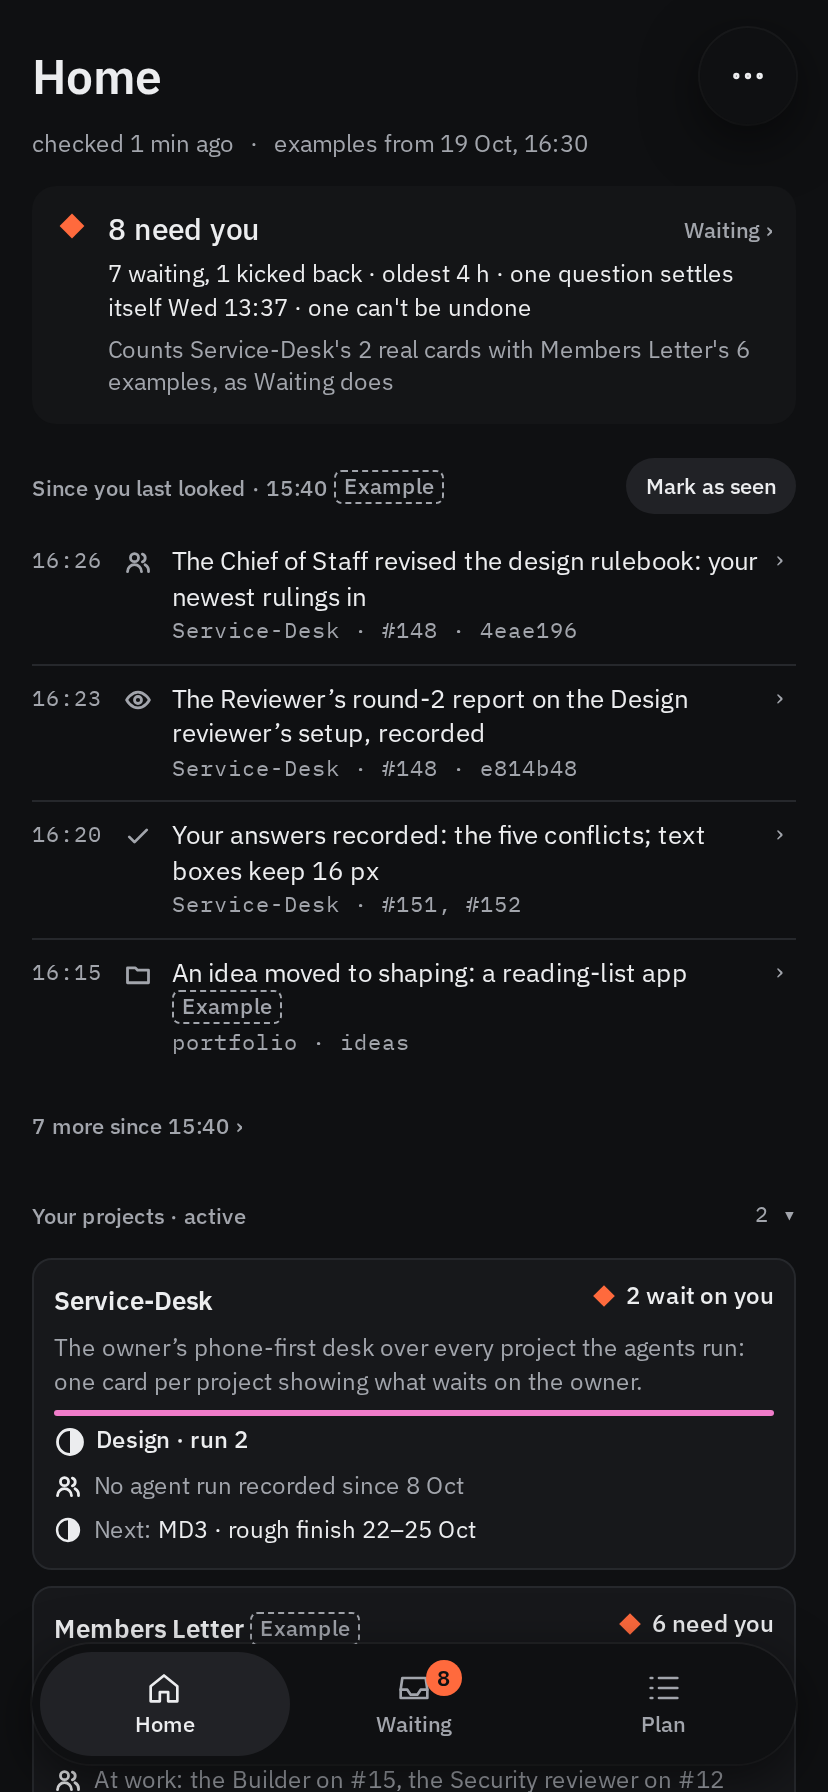
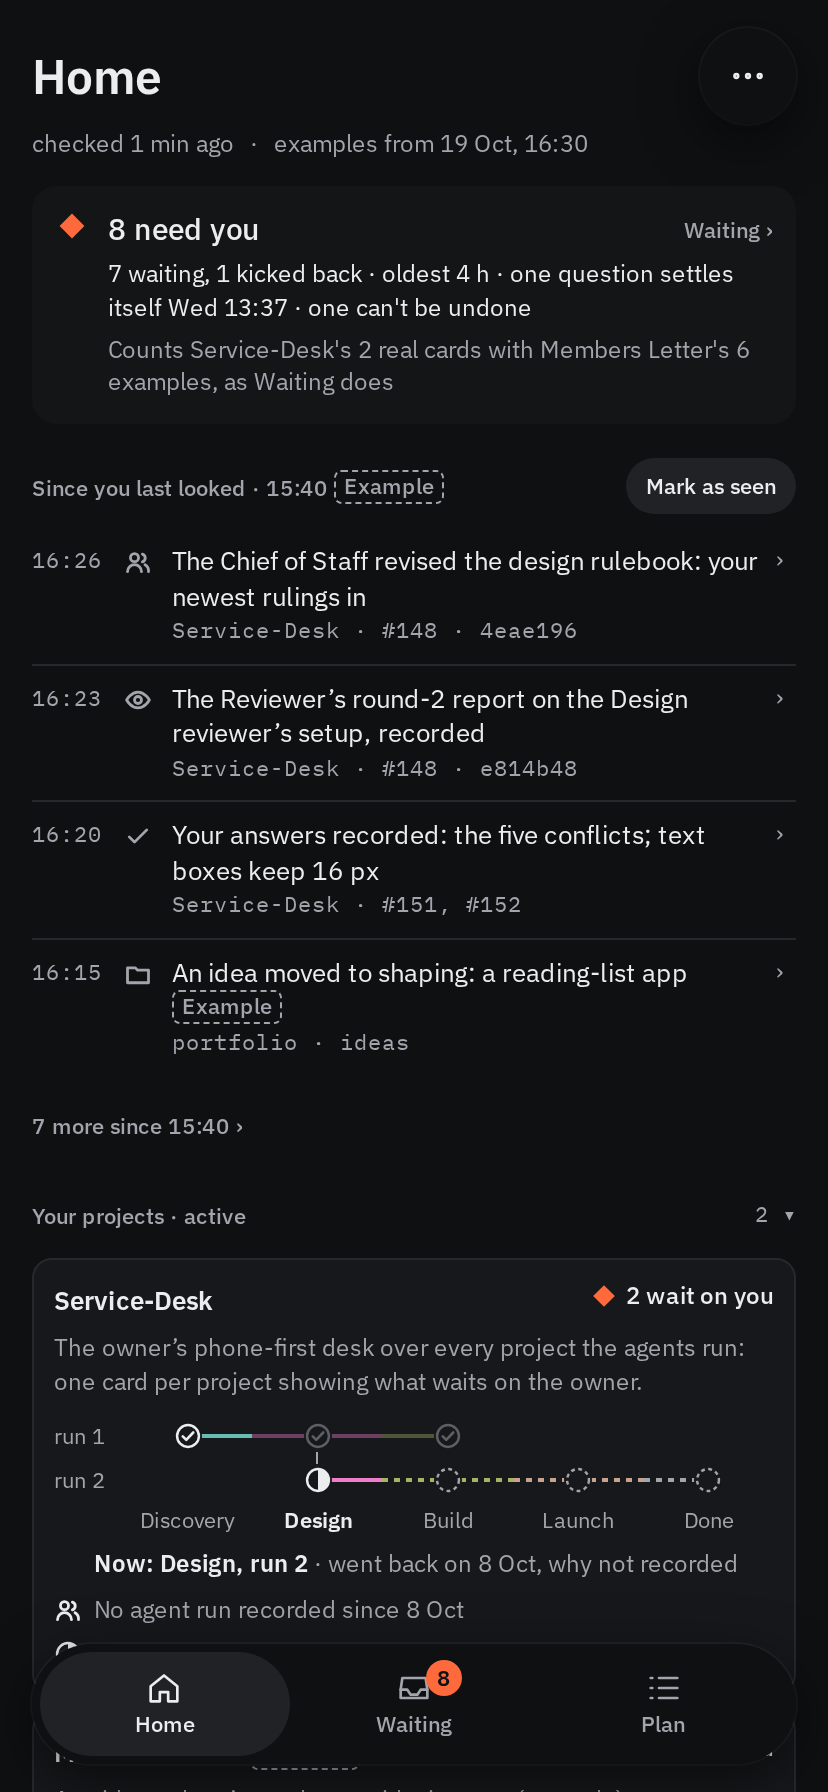
Desk mockup v2: Home's tiles show each project's phases as a timeline
At the owner's request, each tile draws Discovery to Done left to right in time, as the project
page's strip does: run 1 above, a later run branching below the phase it went back to, the
phases it went back over lighter, finished / now / ahead told apart by icon and line as well as
colour, the current phase in bold and in words. Personal-Org-Operating-Model shows its sprints
m1.1 to m1.4 the same way. New frame H5 shows the tiles; H1 to H4 re-captured; README updated.

Agent-Session: session_012RJPVKAoLga2RkqLYRDcBY

diff --git a/docs/design/mockups/desk-v2.html b/docs/design/mockups/desk-v2.html
@@ -341,6 +341,25 @@ textarea::placeholder { color: var(--ink3); }
 .tl2 .ln svg { width: 14px; height: 14px; margin-top: 1px; }
 .tl2 .ln .g { color: var(--ink2); }
 .tl2 .ph { gap: 4px; }
+.ptl { display: grid; gap: 0; margin-top: 2px; }
+.ptl .rw { display: grid; grid-template-columns: repeat(var(--n), minmax(0, 1fr)); height: 22px; }
+.ptl .c { position: relative; display: grid; place-items: center; }
+.ptl .c svg { position: relative; z-index: 1; width: 14px; height: 14px; background: var(--card); border-radius: 7px; }
+.ptl .c.l::before, .ptl .c.r::after { content: ""; position: absolute; top: 50%; height: 2px; margin-top: -1px; background: var(--phc); }
+.ptl .c.l::before { left: 0; right: 50%; }
+.ptl .c.r::after { left: 50%; right: 0; }
+.ptl .c.ahead.l::before, .ptl .c.ahead.r::after { background: repeating-linear-gradient(90deg, var(--phc) 0 3px, transparent 3px 6px); }
+.ptl .c.gone.l::before, .ptl .c.gone.r::after { opacity: .4; }
+.ptl .c.dn > i, .ptl .c.up > i { position: absolute; left: 50%; width: 0; border-left: 1.5px dashed var(--ink2); margin-left: -.75px; }
+.ptl .c.dn > i { top: 50%; bottom: 0; }
+.ptl .c.up > i { top: 0; bottom: 50%; }
+.ptl .lb { display: grid; grid-template-columns: repeat(var(--n), minmax(0, 1fr)); font: 400 11px/1.3 var(--font); color: var(--ink2); text-align: center; padding-top: 2px; }
+.ptl .lb span { overflow-wrap: anywhere; }
+.ptl .lb b { color: var(--ink); font-weight: 600; }
+.ptl .rk { font: var(--t-label); font-weight: 400; color: var(--ink2); }
+.ptl .rwl { display: grid; grid-template-columns: 34px minmax(0, 1fr); align-items: center; }
+.ptl .rwl > .rk { text-align: left; }
+.ptl .lbl { display: grid; grid-template-columns: 34px minmax(0, 1fr); }
 .cmp { display: grid; grid-template-columns: 1fr; gap: 8px; }
 </style>
 </head>
@@ -741,16 +760,38 @@ textarea::placeholder { color: var(--ink3); }
     ['15:47', 'done', 'Your answers recorded: tabs, typeface, PRs with the agents, the Done button', 'Service-Desk · #146'],
   ];
   const evRow = ([t, ic, a, b]) => `<li><a class="ev" href="#"><span class="tm">${t}</span>${K[ic]}<span class="et"><span class="e1">${a}</span><span class="e2">${b}</span></span><span class="chev">›</span></a></li>`;
-  const homeTile = ({ name, tag = '', su, suI, phcls, phIcon, phase, waits, work, next }) => `<a class="tl2" href="#" aria-label="${name}: open its page">
+  const homeTile = ({ name, tag = '', su, suI, tl, phase, phNote, waits, work, next }) => `<a class="tl2" href="#" aria-label="${name}: open its page">
       <span class="hd"><span class="nm">${name} ${tag}</span><span class="wt${waits ? '' : ' g'}">${waits ? ST('you') : ''}${waits || 'Nothing waiting'}</span></span>
       <span class="su${suI ? ' i' : ''}">${su}</span>
-      <span class="ph ${phcls}"${phcls ? '' : ' style="--phc:var(--ink2)"'}><span class="bar3" aria-hidden="true"></span><span class="pn" style="font-size:12px">${ST(phIcon)}${phase}</span></span>
+      ${tl}
+      <span class="ln"><span></span><span><b style="font-weight:600">${phase}</b>${phNote ? ` <span class="g">· ${phNote}</span>` : ''}</span></span>
       <span class="ln">${K.agents}<span class="g">${work}</span></span>
       <span class="ln">${ST(next[0])}<span><span class="g">Next:</span> ${next[1]}</span></span></a>`;
+  const PH = ['ph-disc', 'ph-des', 'ph-build', 'ph-launch', ''];
+  const PHN = ['Discovery', 'Design', 'Build', 'Launch', 'Done'];
+  // one row of a tile's timeline; each cell [icon, state] or null; `drop` names the column a later run branches from
+  const tlRow = (cells, { drop = -1, up = -1, cls = PH } = {}) => `<span class="rw">${cells.map((x, i) => {
+    if (!x) return `<span class="c${i === up ? ' up' : ''}">${i === up ? '<i></i>' : ''}</span>`;
+    const l = i > 0 && cells[i - 1] ? ' l' : '';
+    const r = i < cells.length - 1 && cells[i + 1] ? ' r' : '';
+    return `<span class="c ${cls[i] || ''} ${x[1]}${l}${r}${i === drop ? ' dn' : ''}${i === up ? ' up' : ''}"${cls[i] ? '' : ' style="--phc:var(--ink2)"'}>${i === drop || i === up ? '<i></i>' : ''}${ST(x[0])}</span>`;
+  }).join('')}</span>`;
+  const tlPhases = (run1, run2, now, label) => `<span class="ptl" style="--n:5" role="group" aria-label="${label}">
+      <span class="rwl"><span class="rk">run 1</span>${tlRow(run1, { drop: run2 ? run2.findIndex(Boolean) : -1 })}</span>
+      ${run2 ? `<span class="rwl"><span class="rk">run 2</span>${tlRow(run2, { up: run2.findIndex(Boolean) })}</span>` : ''}
+      <span class="lbl"><span></span><span class="lb">${PHN.map((n, i) => (i === now ? `<b>${n}</b>` : `<span>${n}</span>`)).join('')}</span></span></span>`;
+  const tlSprints = () => `<span class="ptl" style="--n:4" role="group" aria-label="Sprints m1.1 to m1.3 closed, m1.4 open">
+      <span class="rwl"><span class="rk">sprints</span>${tlRow([['reached', 'done'], ['reached', 'done'], ['reached', 'done'], ['progress', 'now']], { cls: ['', '', '', ''] })}</span>
+      <span class="lbl"><span></span><span class="lb" style="font-family:var(--mono)"><span>m1.1</span><span>m1.2</span><span>m1.3</span><b>m1.4</b></span></span></span>`;
   const TILES = (clear) => [
-    { name: 'Service-Desk', su: 'The owner\u2019s phone-first desk over every project the agents run: one card per project showing what waits on the owner.', phcls: 'ph-des', phIcon: 'progress', phase: 'Design · run 2', waits: clear ? '' : '2 wait on you', work: 'No agent run recorded since 8 Oct', next: ['progress', 'MD3 · rough finish 22–25 Oct'] },
-    { name: 'Members Letter', tag: ex, su: 'A paid members\u2019 newsletter with sign-ups (example).', phcls: 'ph-build', phIcon: 'progress', phase: 'Build · run 2', waits: clear ? '' : '6 need you', work: 'At work: the Builder on #15, the Security reviewer on #12', next: ['you', 'the Launch gate, after your ruling'] },
-    { name: 'Personal-Org-Operating-Model', su: 'Its README\u2019s first paragraph shows here; not copied, as the repository is private.', suI: true, phcls: '', phIcon: 'progress', phase: 'Older pipeline · m1.4 open', waits: '', work: 'No dispatch log: not used here', next: ['progress', 'sprint m1.4 · no estimate filed'] },
+    { name: 'Service-Desk', su: 'The owner\u2019s phone-first desk over every project the agents run: one card per project showing what waits on the owner.',
+      tl: tlPhases([['reached', 'done'], ['gone', 'gone'], ['gone', 'gone'], null, null], [null, ['progress', 'now'], ['planned', 'ahead'], ['planned', 'ahead'], ['planned', 'ahead']], 1,
+        'Phases: Discovery finished; Design and Build run 1 gone back over; now Design run 2; Build, Launch and Done ahead'),
+      phase: 'Now: Design, run 2', phNote: 'went back on 8 Oct, why not recorded', waits: clear ? '' : '2 wait on you', work: 'No agent run recorded since 8 Oct', next: ['progress', 'MD3 · rough finish 22–25 Oct'] },
+    { name: 'Members Letter', tag: ex, su: 'A paid members\u2019 newsletter with sign-ups (example).', tl: tlPhases([['reached', 'done'], ['gone', 'gone'], ['gone', 'gone'], null, null], [null, ['reached', 'done'], ['progress', 'now'], ['you', 'ahead'], ['planned', 'ahead']], 2,
+        'Phases: Discovery finished; Design and Build run 1 gone back over; Design run 2 finished; now Build run 2; the Launch gate waits on you; Done ahead'),
+      phase: 'Now: Build, run 2', phNote: 'the Launch gate is next', waits: clear ? '' : '6 need you', work: 'At work: the Builder on #15, the Security reviewer on #12', next: ['you', 'the Launch gate, after your ruling'] },
+    { name: 'Personal-Org-Operating-Model', su: 'Its README\u2019s first paragraph shows here; not copied, as the repository is private.', suI: true, tl: tlSprints(), phase: 'Now: sprint m1.4', phNote: 'older pipeline: sprints, not phases', waits: '', work: 'No dispatch log: not used here', next: ['progress', 'sprint m1.4 · no estimate filed'] },
   ];
   const portfolio = () => `<h3 class="sh" id="portfolio" style="padding-top:18px;border-top:1px solid var(--line)"><span>Across your projects · read only</span><span class="c">portfolio</span></h3>
       <ol class="rows">
@@ -820,6 +861,7 @@ textarea::placeholder { color: var(--ink3); }
     { id: 'H1', t: 'H1 · Home', c: 'Opens first. A short briefing (one tap to Waiting), what changed since you last looked (each line a tap to where it happened), one tile per project, then the parts across projects.', s: () => home() },
     { id: 'H2', t: 'H2 · Home, dark', c: 'H1 in the phone\u2019s dark setting.', s: () => home(), dark: true },
     { id: 'H3', t: 'H3 · Home, all clear', c: 'A made-up moment with everything answered: "Nothing needs you", and the rest of Home stays as it is.', s: () => home({ clear: true }) },
+    { id: 'H5', t: 'H5 · Home, the project tiles', c: 'Each tile draws its phases as a small timeline, left to right in time: run 1 above, the later run branching below the phase it went back to, earlier runs lighter; the current phase in bold and in words. The older pipeline shows its sprints the same way.', s: () => home() },
     { id: 'H4', t: 'H4 · Home, at its foot', c: 'Scrolled past the tiles to "Across your projects · read only", moved here from the foot of Projects.', s: () => home() },
     { id: '1', t: '1 · Waiting, grouped by project', c: 'One board, three lanes at once, each project’s cards together under its name. A gate card has its own kind. Above the board: "With the agents" and the project with nothing waiting.', s: () => waiting() },
     { id: '2', t: '2 · Waiting, one project', c: 'After a tap on "Service-Desk": only its cards. The chip’s ✕ shows every project again.', s: () => waiting({ only: 'sd' }) },
@@ -857,6 +899,7 @@ textarea::placeholder { color: var(--ink3); }
       const n = s.querySelector('[data-now]');
       if (n) s.scrollTop = n.offsetTop - 64;
     });
+    if (params.get('frame') === 'H5') document.querySelectorAll('.scr[data-scroll="home"]').forEach((s) => { const n = s.querySelector('.tl2'); if (n) s.scrollTop = n.offsetTop - 90; });
     if (params.get('frame') === 'H4') document.querySelectorAll('.scr[data-scroll="home"]').forEach((s) => { const n = s.querySelector('#portfolio'); if (n) s.scrollTop = n.offsetTop - 300; });
     // the open phase list starts near the top of the frame
     document.querySelectorAll('.scr[data-scroll="std"]').forEach((s) => {

diff --git a/docs/design/mockups/desk-v2/README.md b/docs/design/mockups/desk-v2/README.md
@@ -3,7 +3,9 @@
 Screenshots of [../desk-v2.html](../desk-v2.html), drawn on 19 Oct from the owner's rulings of that day, with a
 Home tab added on 20 Oct at the owner's request (docs/design/references/owner-request-2026-10-20-home.md: "We got
 rid of the home page - im not sure i like that", then "Mock it up in the same style as the mockup you just showed
-me"). The bar on every frame is now **Home · Waiting · Plan**; the Projects tab is gone. It is a
+me"). The bar on every frame is now **Home · Waiting · Plan**; the Projects tab is gone. After seeing Home, the
+owner asked that its tiles "show the phases in a timeline form as well instead of just the one phase" (same file,
+"The owner's change after seeing Home"); frame H5 shows that. It is a
 mockup only: nothing is built. Linear's general look is the starting point, not a copy (the owner's words on
 [../linear-inspired.html](../linear-inspired.html)). Any frame opens alone at `desk-v2.html?frame=<id>`
 (`&theme=dark`, or `&full=1` for the whole length).
@@ -27,9 +29,10 @@ idea comes from inventory §5.
 
 | File | What it shows |
 |---|---|
-| H1-home-414.png, -360 | Home, opening first. (1) A briefing: "8 need you · 7 waiting, 1 kicked back · oldest 4 h · one question settles itself Wed 13:37 · one can't be undone", counted from frame 1's cards and saying it mixes real and example ones; one tap to Waiting. (2) "Since you last looked · 15:40" with "Mark as seen": the four newest of 11 lines, each a tap to where it happened (real for Service-Desk: the Chief of Staff's and the Reviewer's work on #148, answers #151/#152 recorded; one example idea), "7 more" one tap away. (3) One tile per project: phase (colour, icon, words), what waits (vermilion only when it needs the owner), who is at work, the next milestone with its rough finish |
+| H1-home-414.png, -360 | Home, opening first. (1) A briefing: "8 need you · 7 waiting, 1 kicked back · oldest 4 h · one question settles itself Wed 13:37 · one can't be undone", counted from frame 1's cards and saying it mixes real and example ones; one tap to Waiting. (2) "Since you last looked · 15:40" with "Mark as seen": the four newest of 11 lines, each a tap to where it happened (real for Service-Desk: the Chief of Staff's and the Reviewer's work on #148, answers #151/#152 recorded; one example idea), "7 more" one tap away. (3) One tile per project (full width, below the first screen: see H5) |
 | H2-home-dark-414.png, -360 | H1, dark |
 | H3-home-all-clear-414.png, -360 | A made-up moment with everything answered, said so on the frame: "Nothing needs you"; "since you last looked" and the tiles stay |
+| H5-home-tiles-414.png, -360 | Home scrolled to the tiles. Each tile has a compact timeline of the project's phases: Discovery · Design · Build · Launch · Done, left to right in time like the project page's strip. Run 1 is the top row; the later run branches onto a second row under the phase it went back to, joined by a short dashed drop, and the phases it went back over are lighter (trial-view notes 2, notes 1–2). Finished, now and ahead differ by icon (check, half-filled, dashed ring; a lighter check for gone back over; the vermilion diamond for Members Letter's Launch gate) and by line (solid, dashed), as well as by phase colour. The current phase is bold under the strip, and said in words: "Now: Design, run 2 · went back on 8 Oct, why not recorded". Members Letter (Example) is in Build, run 2. Personal-Org-Operating-Model's tile shows sprints m1.1–m1.4 in the same strip, labelled "sprints". Then what waits on you, who is at work, and the next milestone with its rough finish |
 | H4-home-portfolio-foot-414.png, -360 | Home scrolled to its foot: the last tiles, then "Across your projects · read only" (the cap, decisions across projects, the scorecard, model versions, the rare parts), moved here from the foot of Projects |
 | 1-waiting-414.png, -360 | Waiting: one board, three lanes at once, each project's cards together under its name. Quiet lines above: "With the agents: 2" and "Nothing waiting: Personal-Org-Operating-Model". Service-Desk's real verdict and question; Members Letter's gate card (Critic, user representative, four choice buttons), a question that can't be undone, a deploy, a spend alert and a verdict; one card kicked back; Done for the last 24 hours, with one card still "Confirming with GitHub" (step button and Undo) |
 | 2-waiting-one-project-414.png | After a tap on "Service-Desk": only its cards; the chip's ✕ shows all three projects again |
@@ -67,7 +70,10 @@ All rulings are in decisions/questions/. Where two disagree, the later one is fo
   to know all the agents that are working, what they're working on, why they're working on it, what has
   changed"), with a "Mark as seen" control and the since-time; each line opens where it happened.
 - **One tile per project on the front page**, everything about it inside its tile (P-001-design-lab-1.md, ruling 6),
-  with its README summary (P-001-trial-view-notes-1.md, note 1). The board stays one board across projects, as
+  with its README summary (P-001-trial-view-notes-1.md, note 1). Each tile's phases are drawn as a timeline, not
+  only the current phase (the owner's change of 20 Oct), in phase colours with icons (P-001-redesign-conflicts.md,
+  answer 4), branching for a later run (P-001-trial-view-notes-2.md, notes 1–2), left to right like the phase strip
+  on the project page. The board stays one board across projects, as
   P-001-board-scope.md (C) later ruled.
 - **One board, grouped by project**, a tap on a project's name to show only it (P-001-board-scope.md, C).
 - **Three lanes at once, small text** (P-001-board-layout.md, A: "the text can be small because its closer to my
@@ -133,6 +139,9 @@ All rulings are in decisions/questions/. Where two disagree, the later one is fo
    *Recommendation: full width* while each tile carries four facts. This goes against note 3, so it is the owner's call.
 1c. **The README summary on each Home tile** (notes-1, note 1) adds two lines per tile. *Recommendation: keep it*;
    it is the only line that says what each project is.
+1e. **The tile's timeline is drawn left to right in time**, like the project page's strip, with run 2 branching
+   down. The bottom-up rule (notes-2, note 15) covers vertical lists, and a horizontal strip has no "up".
+   *Recommendation: keep it left to right*, so the tile and the project page read the same way.
 1d. **How many "since you last looked" lines before "more"?** Shown: four, so the tiles start on the first screen at
    414 px. *Recommendation: four.*
 2. **Technical, Context and Why: keep the labels' own colours (7a), or grey (7b)?** Not ruled
@@ -156,14 +165,14 @@ All rulings are in decisions/questions/. Where two disagree, the later one is fo
 ## Checks
 
 Playwright with Chromium (`/opt/pw-browsers`), each frame opened alone at 414×896 and 360×740 (frame 7c is a
-screenshot and isn't measured): 38 captures with the Home frames and the full-length Timelines, plus the gallery
+screenshot and isn't measured): 40 captures with the Home frames and the full-length Timelines, plus the gallery
 at 360 and 1280. The headless
 browser can't reach Google Fonts here, so the capture served the same IBM Plex files, fetched beforehand with
 curl. Fonts were confirmed loaded in every capture; the page itself loads them from Google Fonts.
 
 | Check | Result |
 |---|---|
-| Sideways scroll at 360 and 414 (page, every screen and sheet) | none: 0 px in all 38 captures and the gallery |
+| Sideways scroll at 360 and 414 (page, every screen and sheet) | none: 0 px in all 40 captures and the gallery |
 | Tap areas (WCAG 2.5.8, 24 px; links inline in text excepted) | smallest 26 px (the gate card's four buttons); board buttons and "Mark as seen" 28 px; rows 40–44 px; tabs 52 px |
 | Close controls | 44 × 44 px on every sheet |
 | Text contrast (each text element against its effective background, light and dark) | all ≥ 4.5:1; lowest 4.51:1 ("Context", dusty rose, 7a only); next lowest 5.18:1; dark mode lowest 6.69:1; text-box placeholder 4.83:1 |
